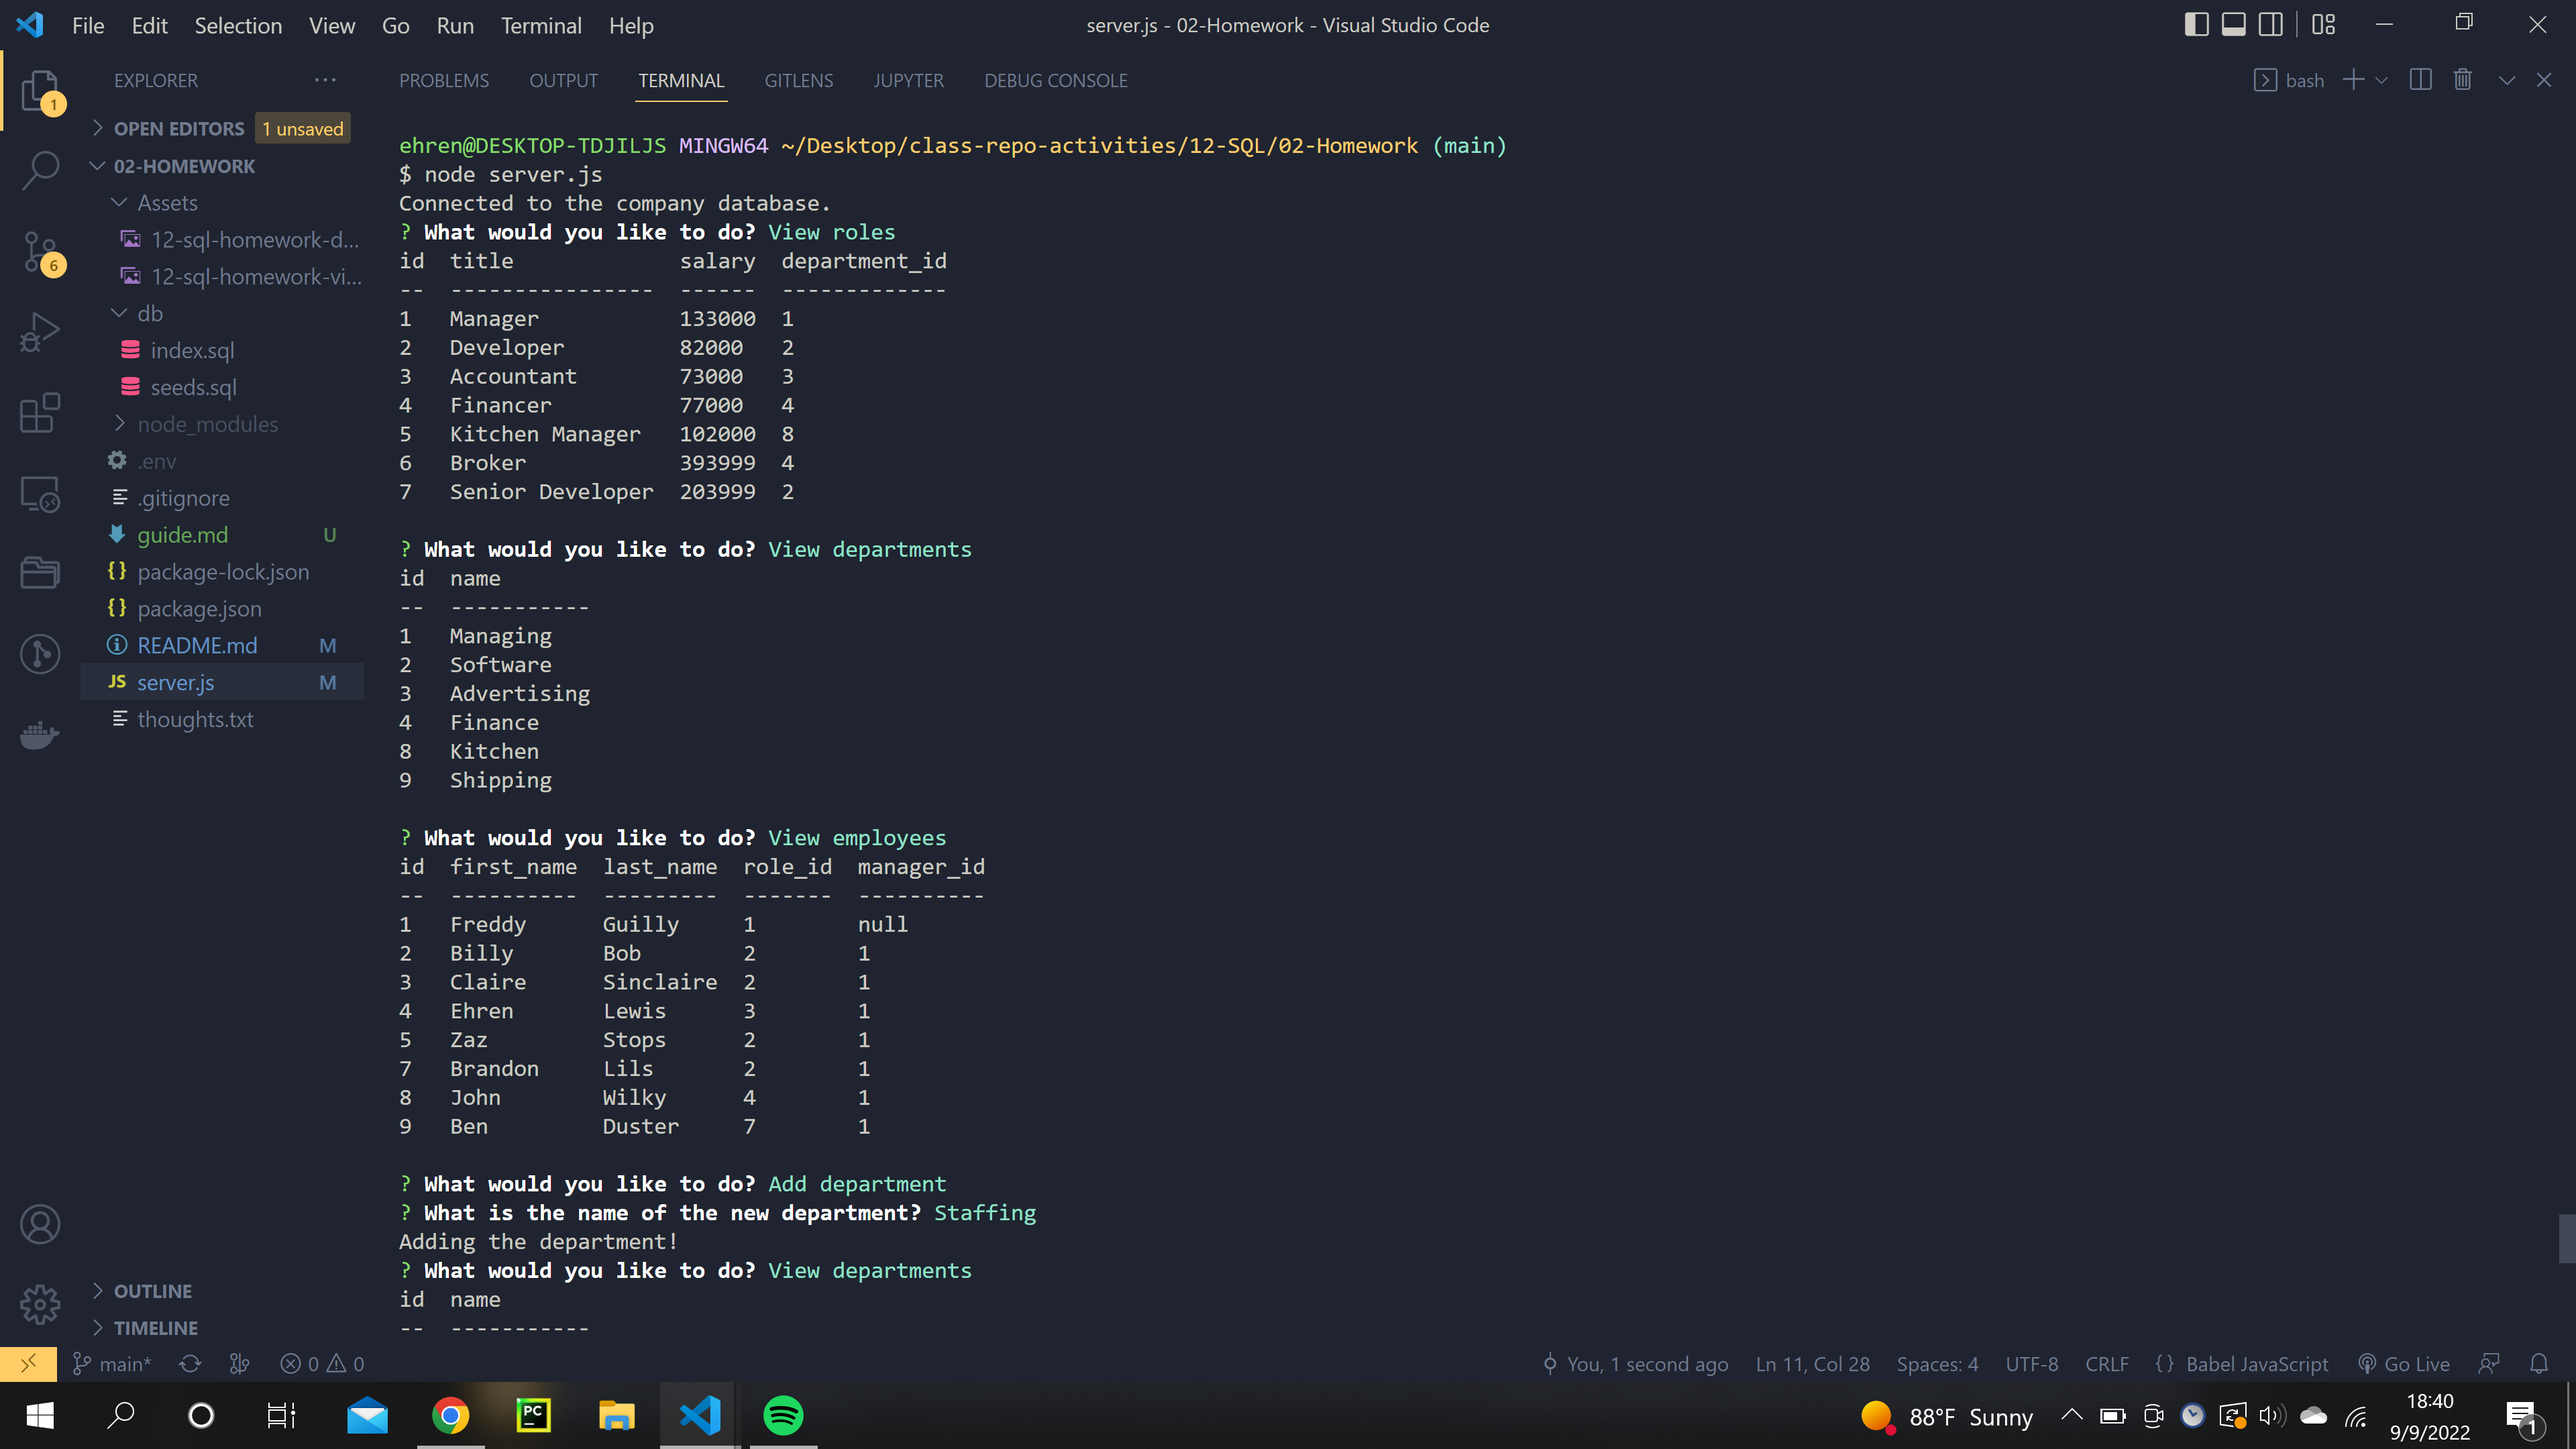
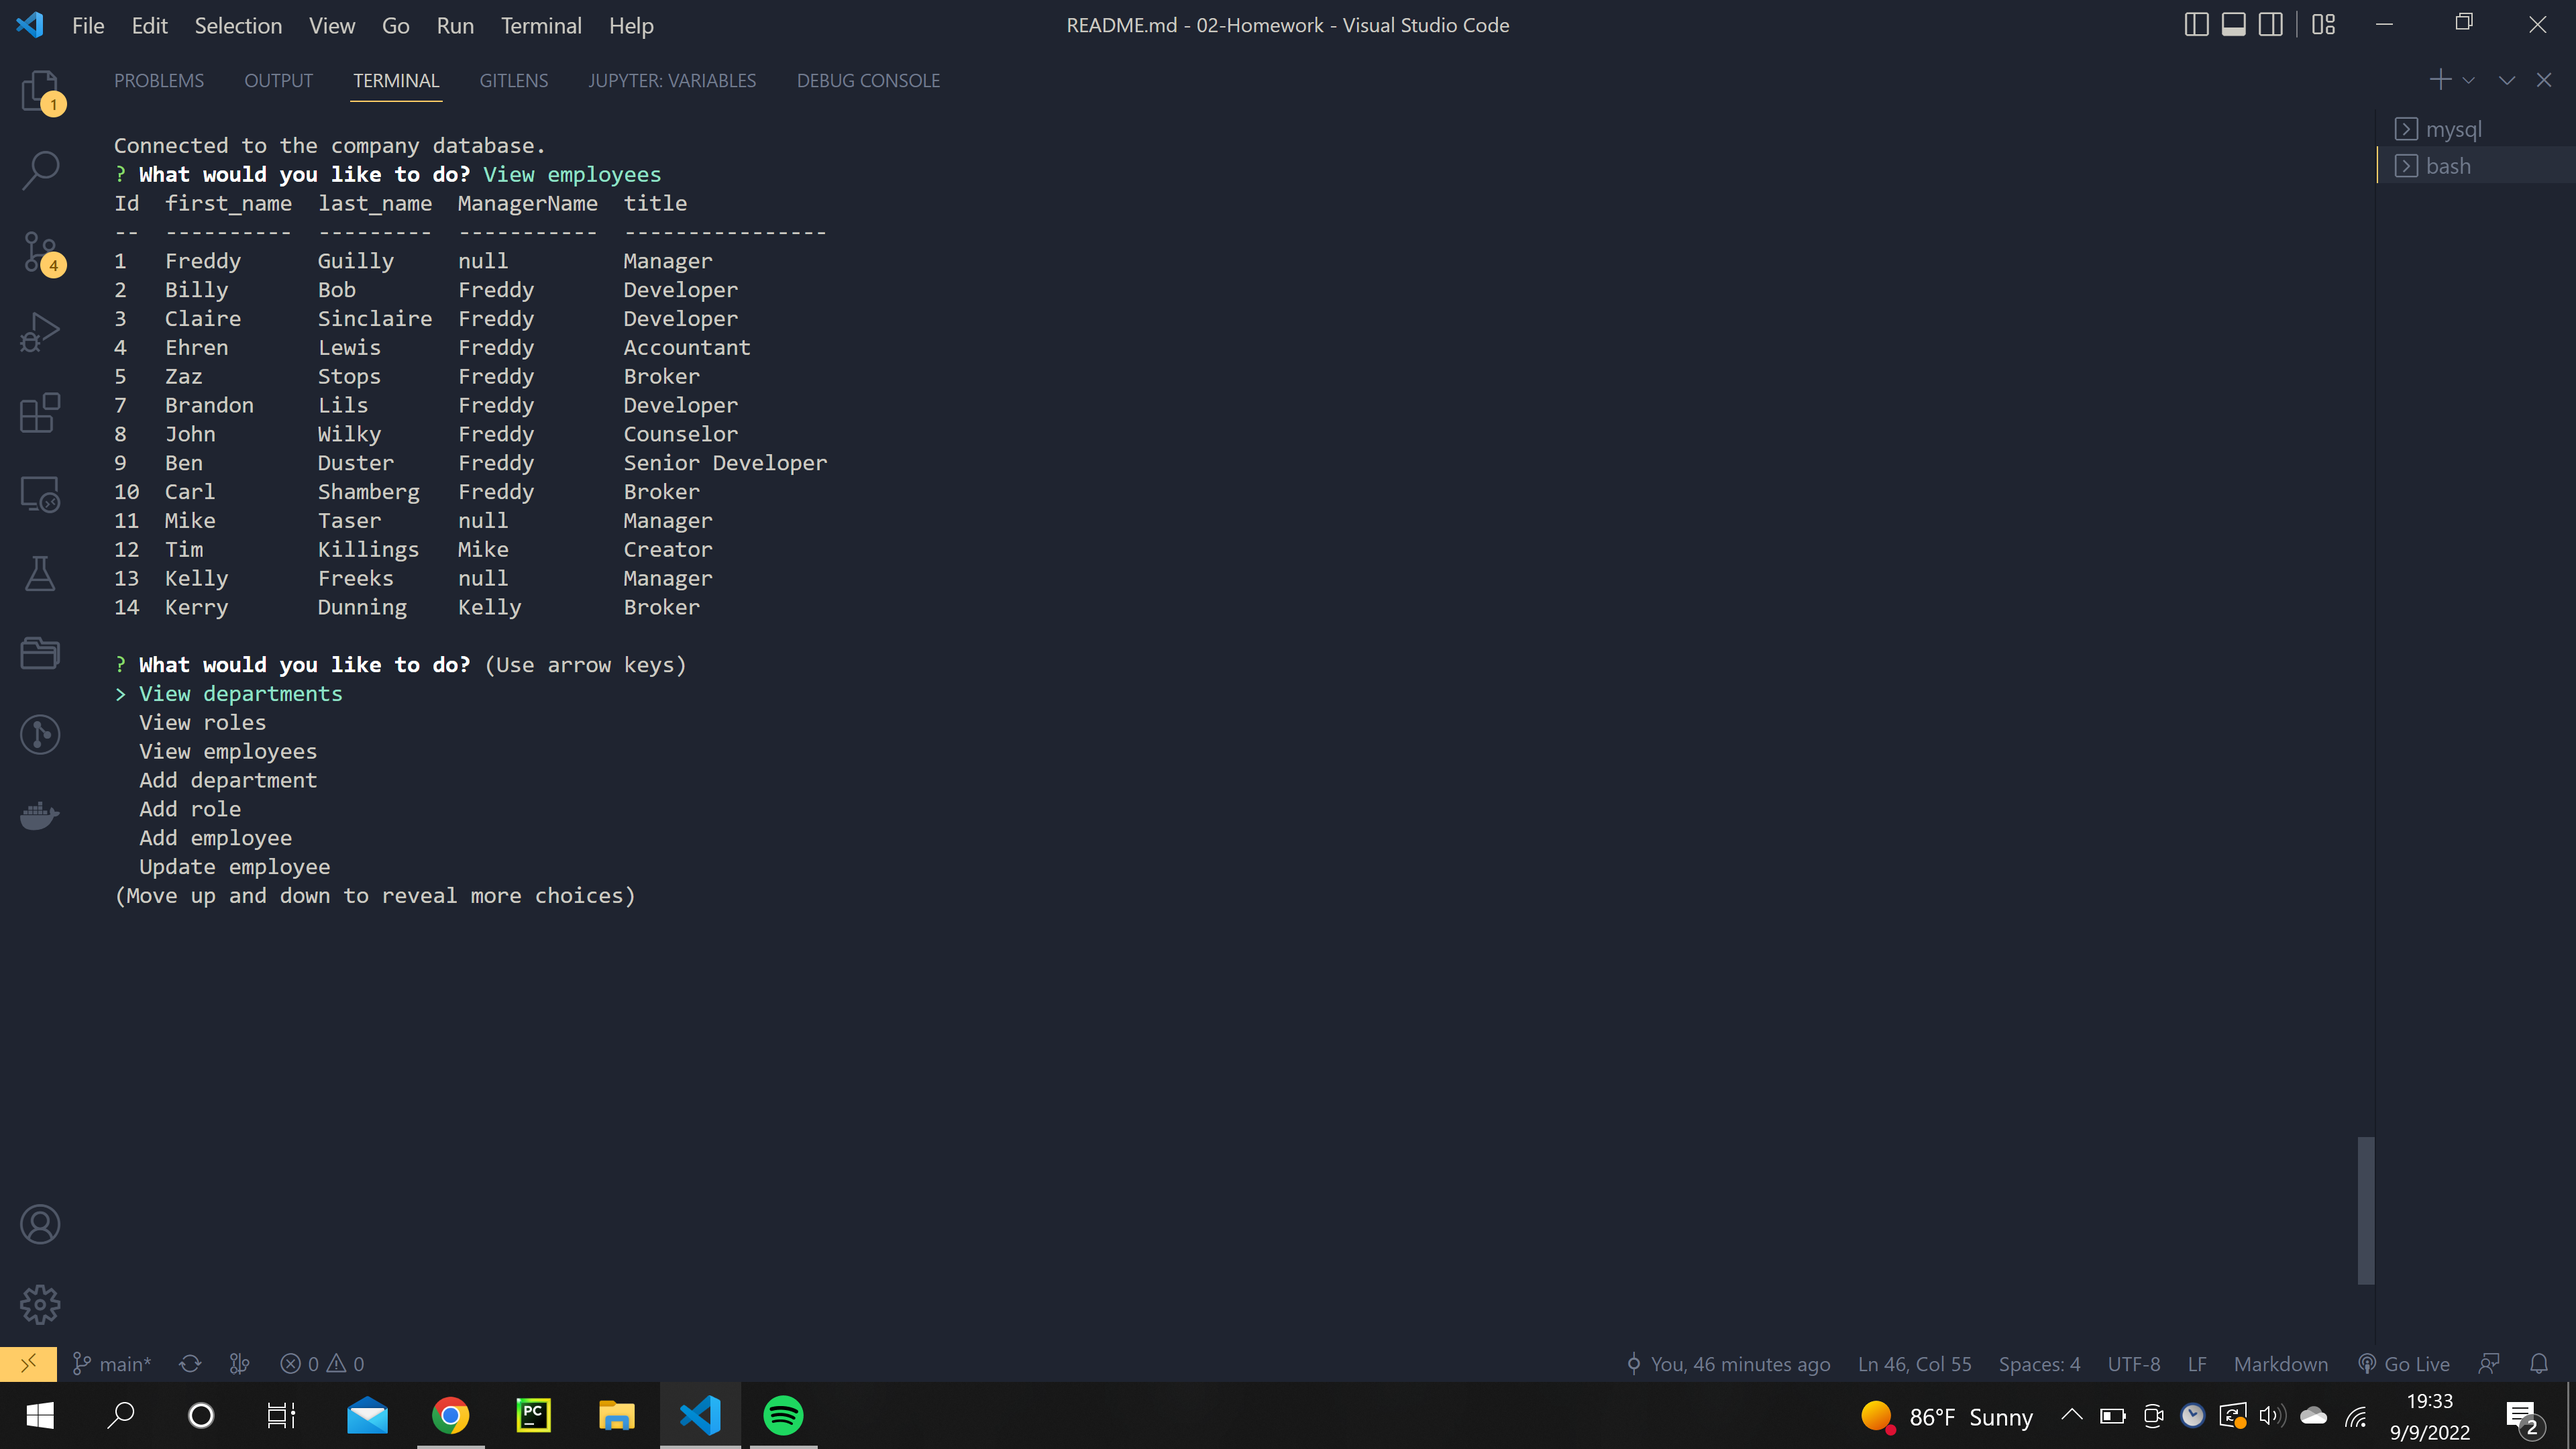
made viewing employees and roles more robust, retook an image, and rerecorded the video

diff --git a/server.js b/server.js
@@ -20,22 +20,50 @@ const viewDeparments = () => {
         mainMenu();
       });
       
+ 
 }
 
 const viewRoles = () => {
-    db.query('SELECT * FROM roles', function (err, results) {
-        console.table(results);
+    // db.query('SELECT * FROM roles', function (err, results) {
+    //     console.table(results);
+    //     mainMenu();
+    //   });
+
+    db.query(`
+    SELECT roles.id, roles.title, roles.salary, department.name AS department FROM roles 
+LEFT JOIN department
+ON roles.department_id = department.id;`, (err, res) => {
+        console.table(res);
         mainMenu();
-      });
+    });
+
 
       
 }
 
+
 const viewEmployees = () => {
-    db.query('SELECT * FROM employee', function (err, results) {
-        console.table(results);
-        mainMenu();
-      });
+    // db.query('SELECT * FROM employee', function (err, results) {
+    //     console.table(results);
+    //     mainMenu();
+    //   });
+
+      db.query(`
+      SELECT
+    Employees.Id,
+        Employees.first_name,
+        Employees.last_name,
+        Manager.first_name AS ManagerName,
+        fullRoles.title
+FROM employee Employees
+LEFT JOIN employee Manager
+ON Employees.manager_id = Manager.id
+JOIN roles fullRoles ON fullRoles.id = Employees.role_id;`, (err, res) => {
+    console.table(res);
+    
+  mainMenu();
+  });
+
       
 }
 

diff --git a/README.md b/README.md
@@ -40,7 +40,7 @@ Some challenges I faced include connecting the the database, querying the databa
 
 This project will automatically launch once server file has been run. Then, you are asked to choose from a list of choices, such as view employees or add roles. Choose any of the actions, then complete the necessary prompts or finish viewing whatever information is presented. To exit the application, select the quit option and the application will finish.
 
-video link: https://drive.google.com/file/d/1XWy4HsgJk5v1zCjEbVSDL7oe-wD04oqt/view
+video link: chrome-extension://mmeijimgabbpbgpdklnllpncmdofkcpn/app.html#/files/5816ec3a-4d19-49c8-y9eb-b0c3af562844
 
 ![Image of start of the prompts](/Assets/images/firstLoad.png)
 ![Image of adding a department](/Assets/images/addingDepartment.png)
